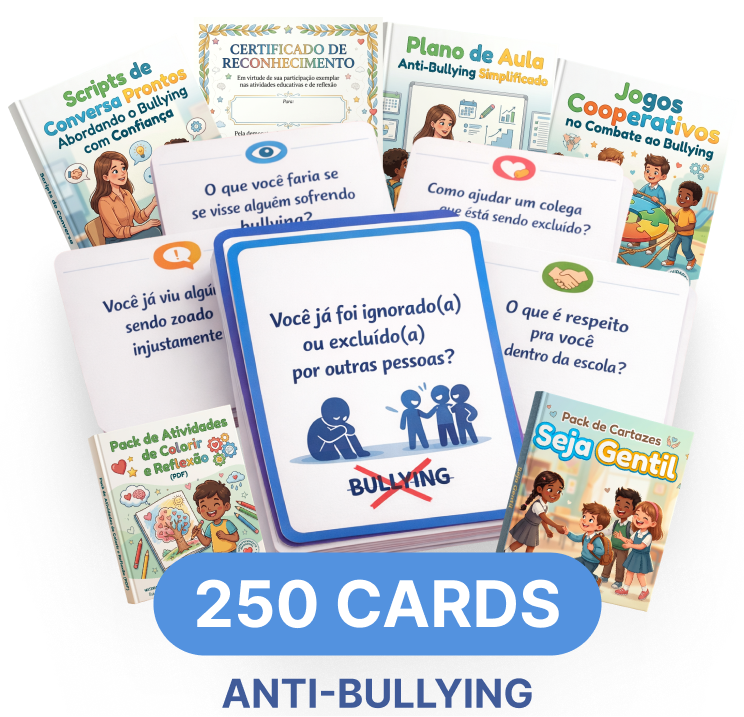
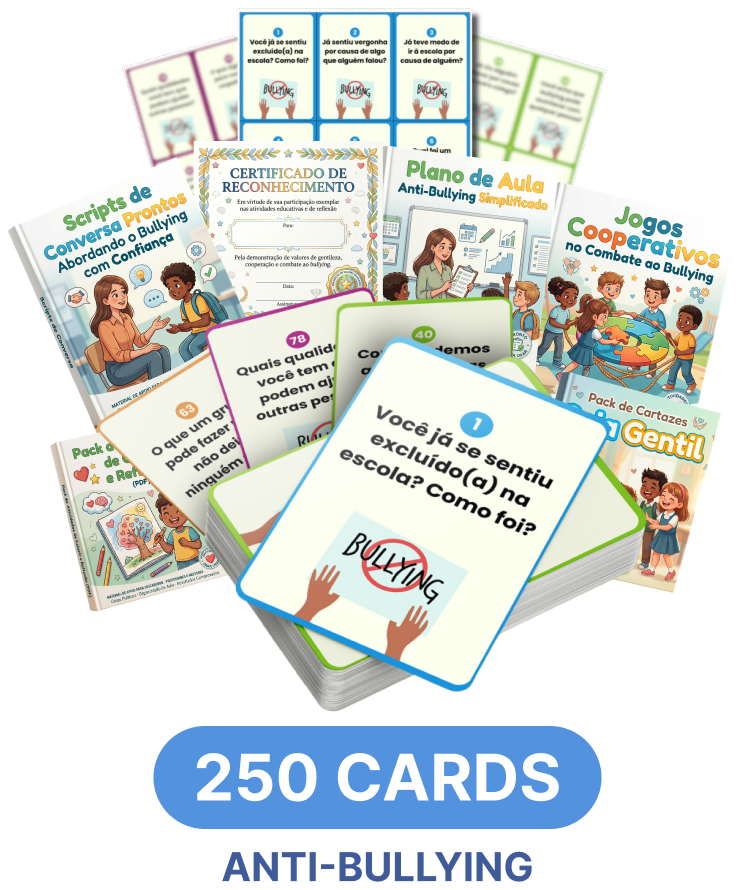
ggwp3

diff --git a/cards-anti-bullying/index.html b/cards-anti-bullying/index.html
@@ -66,11 +66,12 @@ src="https://www.facebook.com/tr?id=1285991603461413&ev=PageView&noscript=1"
     <h1>BULLYING <em>NÃO É</em> COISA <br>DE CRIANÇA.</h1>
     <p class="hero-sub"><strong>É dor de verdade.</strong> E precisa de um<br> adulto que aja!</p>
 
-    <div class="product-badge">
-      <span class="label">✨ Apresentamos</span>
-      <span class="name">250 CARDS ANTI-BULLYING</span>
-      <span class="tagline">para abrir conversas que palavras comuns não conseguem</span>
-    </div>
+     <img src="public/cards4.png" alt="cards4" style="width: 100%;"/>
+
+     <p class="hero-sub">para combater o bullying com empatia, conversa e ação!</p>
+
+     <img src="public/fotos.png" alt="cards4" style="width: 100%;"/>
+
   </div>
 </section>
 
@@ -109,7 +110,7 @@ src="https://www.facebook.com/tr?id=1285991603461413&ev=PageView&noscript=1"
     <h2>É por isso que criamos os<br><span>250 CARDS ANTI-BULLYING</span></h2>
     <p>São 250 cartas práticas, pensadas por etapas, que transformam o silêncio em conversa e a conversa em mudança de comportamento.</p>
 
-    <img src="public/cards.jpg" alt="250 Cards Anti-Bullying" style="width:100%;max-width:560px;border-radius:var(--radius);box-shadow:var(--shadow);margin:0 auto 28px;display:block;"/>
+    <img src="public/cards.png" alt="250 Cards Anti-Bullying" style="width:100%;"/>
 
     <div style="background:linear-gradient(135deg,#fff9e6,#fff0f5);border-radius:var(--radius);padding:24px 28px;max-width:520px;margin:0 auto;border:3px dashed var(--yellow);">
       <p style="font-family:'Baloo 2',sans-serif;font-size:1.1rem;font-weight:900;margin-bottom:4px;">UM BARALHO. 250 CARTAS.</p>
@@ -165,9 +166,8 @@ src="https://www.facebook.com/tr?id=1285991603461413&ev=PageView&noscript=1"
       <div class="aud-chip">👨👩👧 Pais e Mães</div>
     </div>
 
-    <p class="audience-cta-text" style="margin-bottom:28px;">Veja como as perguntas tocam a realidade das crianças</p>
 
-   <img src="public/cards2.jpg" alt="Jornada 4 etapas" style="width:100%;max-width:560px;border-radius:var(--radius);box-shadow:var(--shadow);display:block;margin:0 auto;" />
+   <img src="public/cards2.png" alt="Jornada 4 etapas" style="width:100%;max-width:560px;border-radius:var(--radius);box-shadow:var(--shadow);display:block;margin:0 auto;" />
 
     <p class="audience-cta-text" style="font-style:italic;color:#999; margin-top:28px;">Os 250 Cards Anti-Bullying abrem portas para conversas que palavras comuns não conseguem...</p>
 
@@ -183,65 +183,13 @@ src="https://www.facebook.com/tr?id=1285991603461413&ev=PageView&noscript=1"
     <div class="carousel-wrap">
       <div class="carousel-track" id="carouselTrack">
 
-        <div class="testi-card">
-          <div class="testi-stars">★★★★★</div>
-          <p class="testi-text">Eu já tinha tentado de tudo — roda de conversa, cartaz na parede, chamada de atenção. Nada chegava de verdade nas crianças. Na primeira semana usando os cards, uma aluna que vivia isolada pediu para sentar com o grupo. Não precisei dizer nada. A carta abriu a conversa que eu não sabia como começar.</p>
-          <div class="testi-footer">
-            <div class="testi-avatar">A</div>
-            <div>
-              <div class="testi-author">Ana Paula Ferreira</div>
-              <div class="testi-role">Professora do 3º ano · Belo Horizonte, MG</div>
-            </div>
-          </div>
-        </div>
+        <div class="testi-card"><img src="./public/depoimentos/Design-sem-nome-2025-08-09T173238.109-768x768.png" alt="Depoimento 1" style="width:100%;border-radius:var(--radius);display:block;" /></div>
 
-        <div class="testi-card">
-          <div class="testi-stars">★★★★★</div>
-          <p class="testi-text">Como psicóloga escolar, recebo crianças que mal conseguem falar sobre o que sentem. Os cards viraram meu recurso principal nos atendimentos. A linguagem é perfeita para a faixa etária — lúdica, mas profunda. Em dois meses percebi avanços que antes levavam o semestre inteiro.</p>
-          <div class="testi-footer">
-            <div class="testi-avatar" style="background:linear-gradient(135deg,var(--sky),var(--purple));">C</div>
-            <div>
-              <div class="testi-author">Camila Rocha</div>
-              <div class="testi-role">Psicóloga Escolar · São Paulo, SP</div>
-            </div>
-          </div>
-        </div>
+        <div class="testi-card"><img src="./public/depoimentos/Design-sem-nome-2025-08-09T173427.654-768x768.png" alt="Depoimento 2" style="width:100%;border-radius:var(--radius);display:block;" /></div>
 
-        <div class="testi-card">
-          <div class="testi-stars">★★★★★</div>
-          <p class="testi-text">Meu filho de 8 anos sofria bullying e mal conseguia explicar o que sentia. Comprei os cards sem muita expectativa. Mas na terceira sessão ele mesmo pegou uma carta e disse: "é isso que acontece comigo, mãe". Chorei. Finalmente ele tinha palavras para o que vivia.</p>
-          <div class="testi-footer">
-            <div class="testi-avatar" style="background:linear-gradient(135deg,var(--mint),var(--sky));">M</div>
-            <div>
-              <div class="testi-author">Mariana Souza</div>
-              <div class="testi-role">Mãe · Curitiba, PR</div>
-            </div>
-          </div>
-        </div>
+        <div class="testi-card"><img src="./public/depoimentos/Design-sem-nome-2025-08-09T173442.675-768x768.png" alt="Depoimento 3" style="width:100%;border-radius:var(--radius);display:block;" /></div>
 
-        <div class="testi-card">
-          <div class="testi-stars">★★★★★</div>
-          <p class="testi-text">Trabalhei 12 anos como pedagoga e nunca tive um recurso tão completo para lidar com bullying. As 4 etapas fazem todo sentido na prática: as crianças sentem, observam, agem e refletem — quase sem perceber que estão aprendendo. Aplico toda semana e o clima da sala mudou completamente.</p>
-          <div class="testi-footer">
-            <div class="testi-avatar" style="background:linear-gradient(135deg,var(--coral),var(--orange));">R</div>
-            <div>
-              <div class="testi-author">Renata Lima</div>
-              <div class="testi-role">Pedagoga · Fortaleza, CE</div>
-            </div>
-          </div>
-        </div>
-
-        <div class="testi-card">
-          <div class="testi-stars">★★★★★</div>
-          <p class="testi-text">Comprei achando que seria mais um material bonito que fica na gaveta. Me surpreendi: o formato em PDF facilitou muito — imprimi, recortei e em 20 minutos estava usando com minha turma. A dinâmica fluiu naturalmente. Os alunos pediram para jogar de novo na semana seguinte.</p>
-          <div class="testi-footer">
-            <div class="testi-avatar" style="background:linear-gradient(135deg,var(--purple),var(--pink));">L</div>
-            <div>
-              <div class="testi-author">Lucas Mendes</div>
-              <div class="testi-role">Professor do 5º ano · Recife, PE</div>
-            </div>
-          </div>
-        </div>
+        <div class="testi-card"><img src="./public/depoimentos/Design-sem-nome-2025-08-09T173548.862-768x768.png" alt="Depoimento 4" style="width:100%;border-radius:var(--radius);display:block;" /></div>
 
       </div>
     </div>
@@ -287,7 +235,7 @@ src="https://www.facebook.com/tr?id=1285991603461413&ev=PageView&noscript=1"
 
     <div class="delivery-box">
       <strong>Você recebe os arquivos exatamente assim!</strong>
-      <img src="public/cards3.jpg" alt="Folhas com os cards organizados" style="width:100%;border-radius:var(--radius);box-shadow:var(--shadow);display:block;margin-top:18px;" />
+      <img src="public/cards3.png" alt="Folhas com os cards organizados" style="width:100%;border-radius:var(--radius);box-shadow:var(--shadow);display:block;margin-top:18px;" />
       <p style="margin-top:14px;font-size:.92rem;color:var(--mid);">Os cards vêm organizados em folhas com vários cards por página, facilitando a impressão e o recorte. Esse formato otimiza o uso do papel, evitando desperdício e tornando muito mais prático!</p>
     </div>
   </div>
@@ -388,7 +336,7 @@ src="https://www.facebook.com/tr?id=1285991603461413&ev=PageView&noscript=1"
         <li><span class="check">🎁</span> Bônus 5: Plano de Aula Anti-Bullying Simplificado</li>
         <li><span class="check">🎁</span> Bônus 6: Pack de Atividades de Colorir e Reflexão</li>
       </ul>
-      <p class="total-old">Valor total do pacote: R$197,00</p>
+      <p class="total-old">Valor total do pacote: R$97,00</p>
       <p class="total-new">R$19,90 <small>hoje</small></p>
     </div>
 

diff --git a/cards-anti-bullying/styles.css b/cards-anti-bullying/styles.css
@@ -69,7 +69,7 @@ body {
 /* ── HERO ───────────────────────────────────── */
 .hero {
   background: linear-gradient(160deg, #fff9e6 0%, #fff0f5 100%);
-  padding: 64px 20px 48px;
+  padding: 64px 20px 0;
   text-align: center;
   position: relative;
   overflow: hidden;
@@ -152,6 +152,7 @@ section { padding: 56px 20px; }
   background: linear-gradient(135deg, #fff5f5 0%, #fff9f0 100%);
   border-top: 5px dashed #ffc9c9;
   border-bottom: 5px dashed #ffc9c9;
+  padding-top: 24px;
 }
 .problem h2 {
   font-family: 'Baloo 2', sans-serif;
@@ -311,22 +312,9 @@ section { padding: 56px 20px; }
   transition: transform .45s cubic-bezier(.4,0,.2,1);
 }
 .testi-card {
-  background: #fff;
   border-radius: var(--radius);
-  padding: 32px 26px 24px;
-  box-shadow: var(--shadow);
-  position: relative;
+  overflow: hidden;
   flex: 0 0 100%;
-  min-height: 200px;
-}
-.testi-card::before {
-  content: '"';
-  font-family: 'Baloo 2', sans-serif;
-  font-size: 5rem;
-  color: var(--yellow);
-  position: absolute;
-  top: -4px; left: 16px;
-  line-height: 1;
 }
 .testi-stars { color: #FFD93D; font-size: 1.05rem; margin-bottom: 10px; }
 .testi-text {
